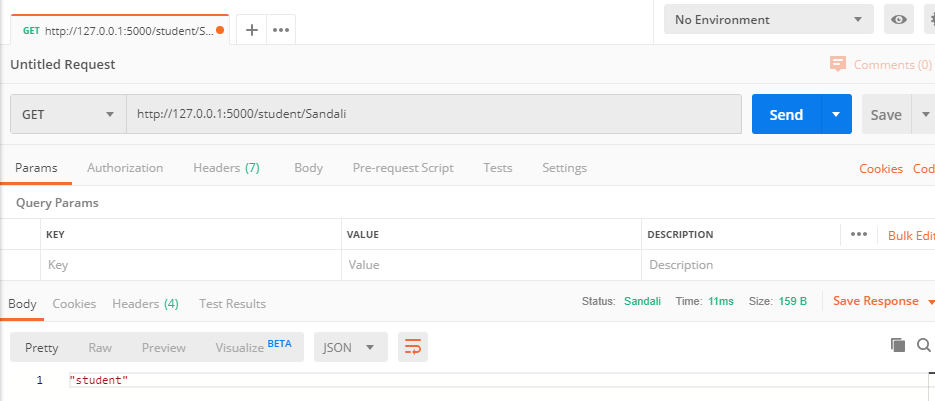
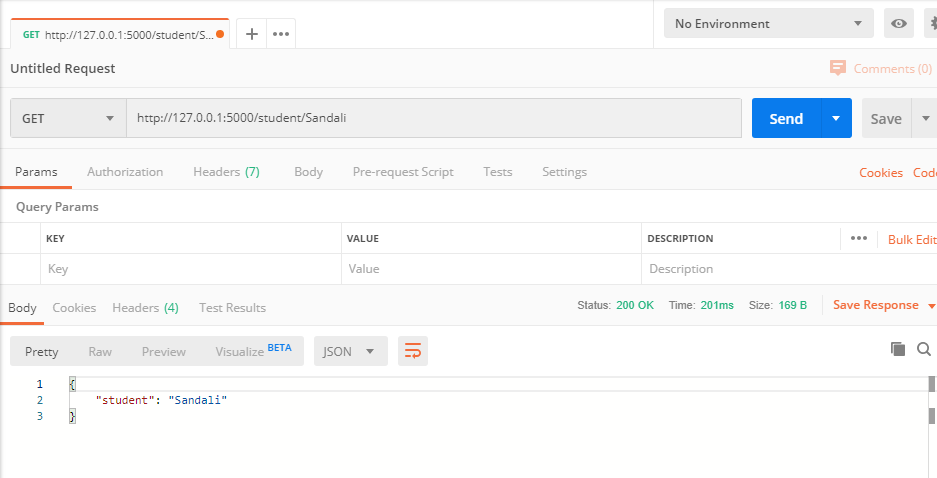
Add files via upload

diff --git a/app.py b/app.py
@@ -1,17 +1,16 @@
 # app.py
 
 from flask import Flask
-#from flask import jsonif,request
 from flask_restful import Resource, Api
 
 app = Flask(__name__)
 api = Api(app)
 
-#########@app.route('/', methods=['GET'])
 class Student(Resource):
     def get(self, Sandali):
-        return ('student',Sandali)
+        return {'student': 'Sandali'}
 
 api.add_resource(Student, '/student/<string:Sandali>')
+#http://127.0.0.1:5000/student/Rolf
 
 app.run(port=5000)
